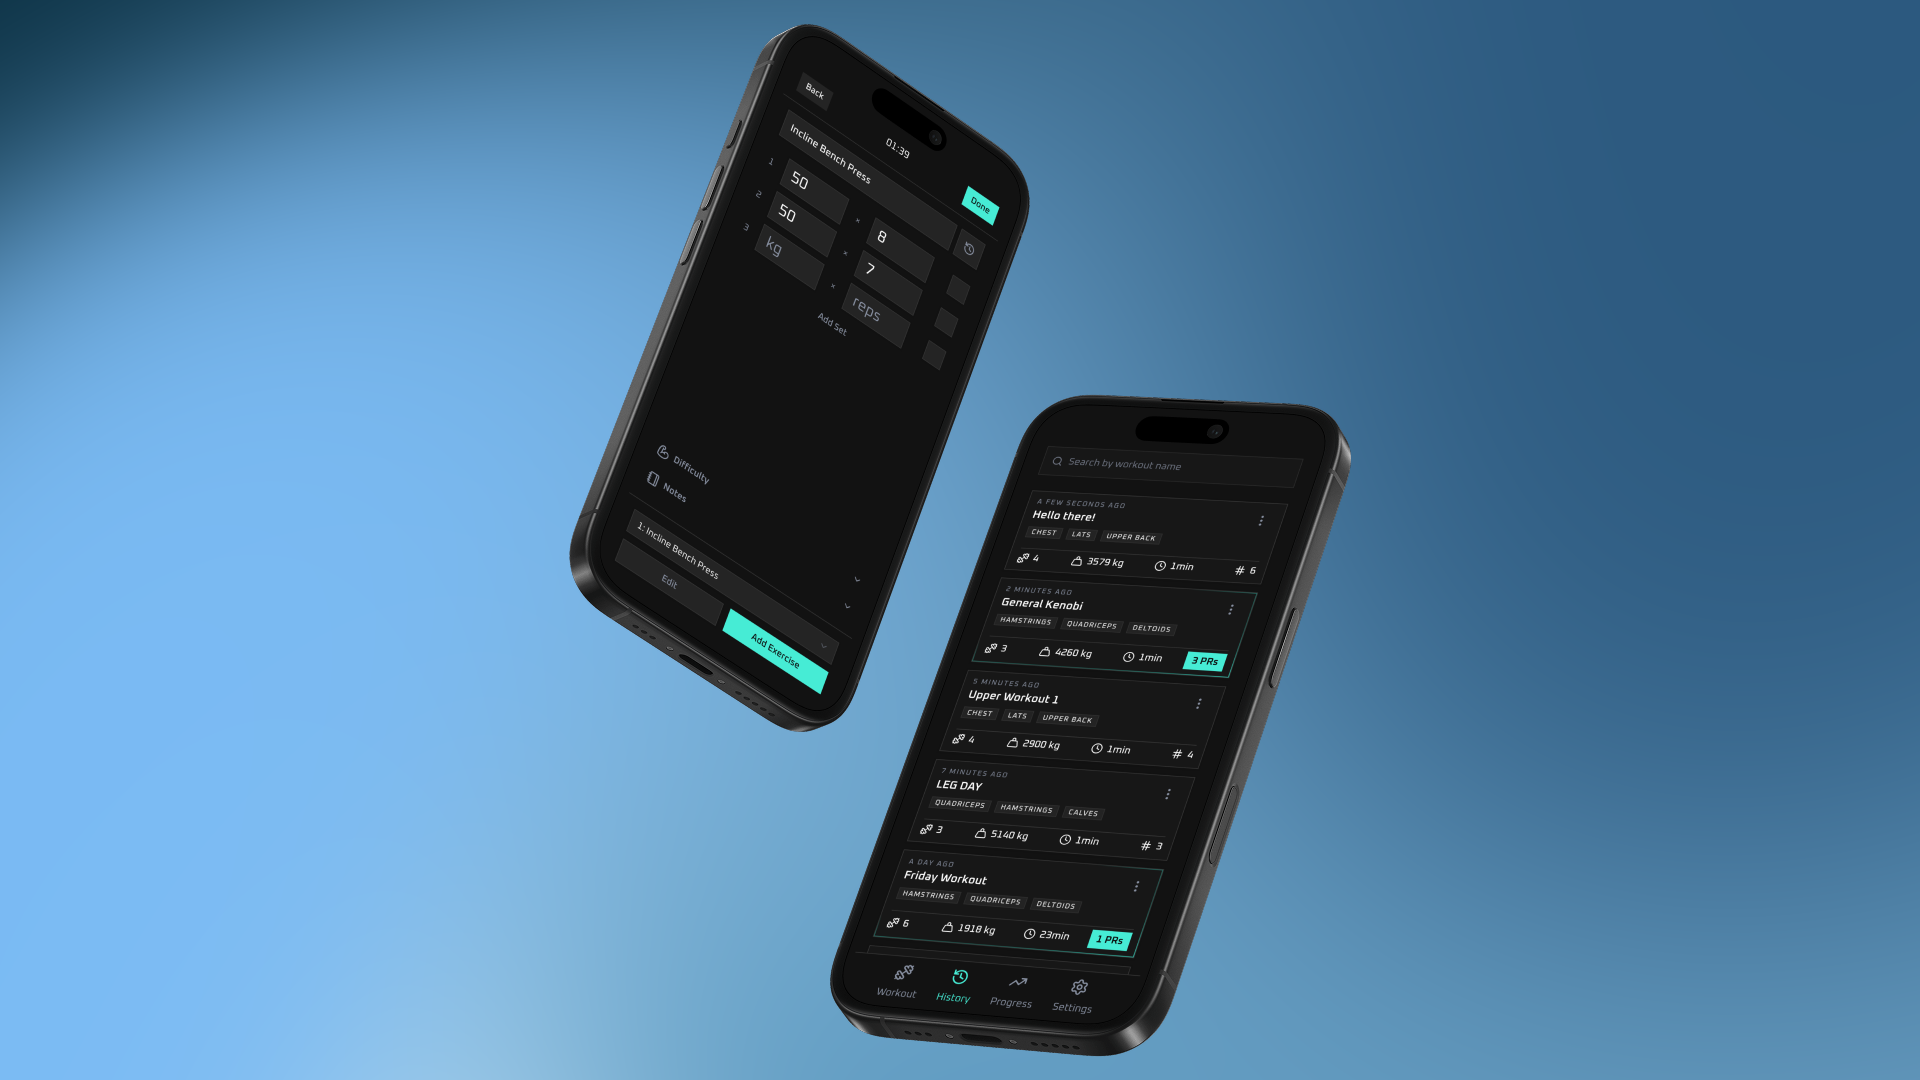
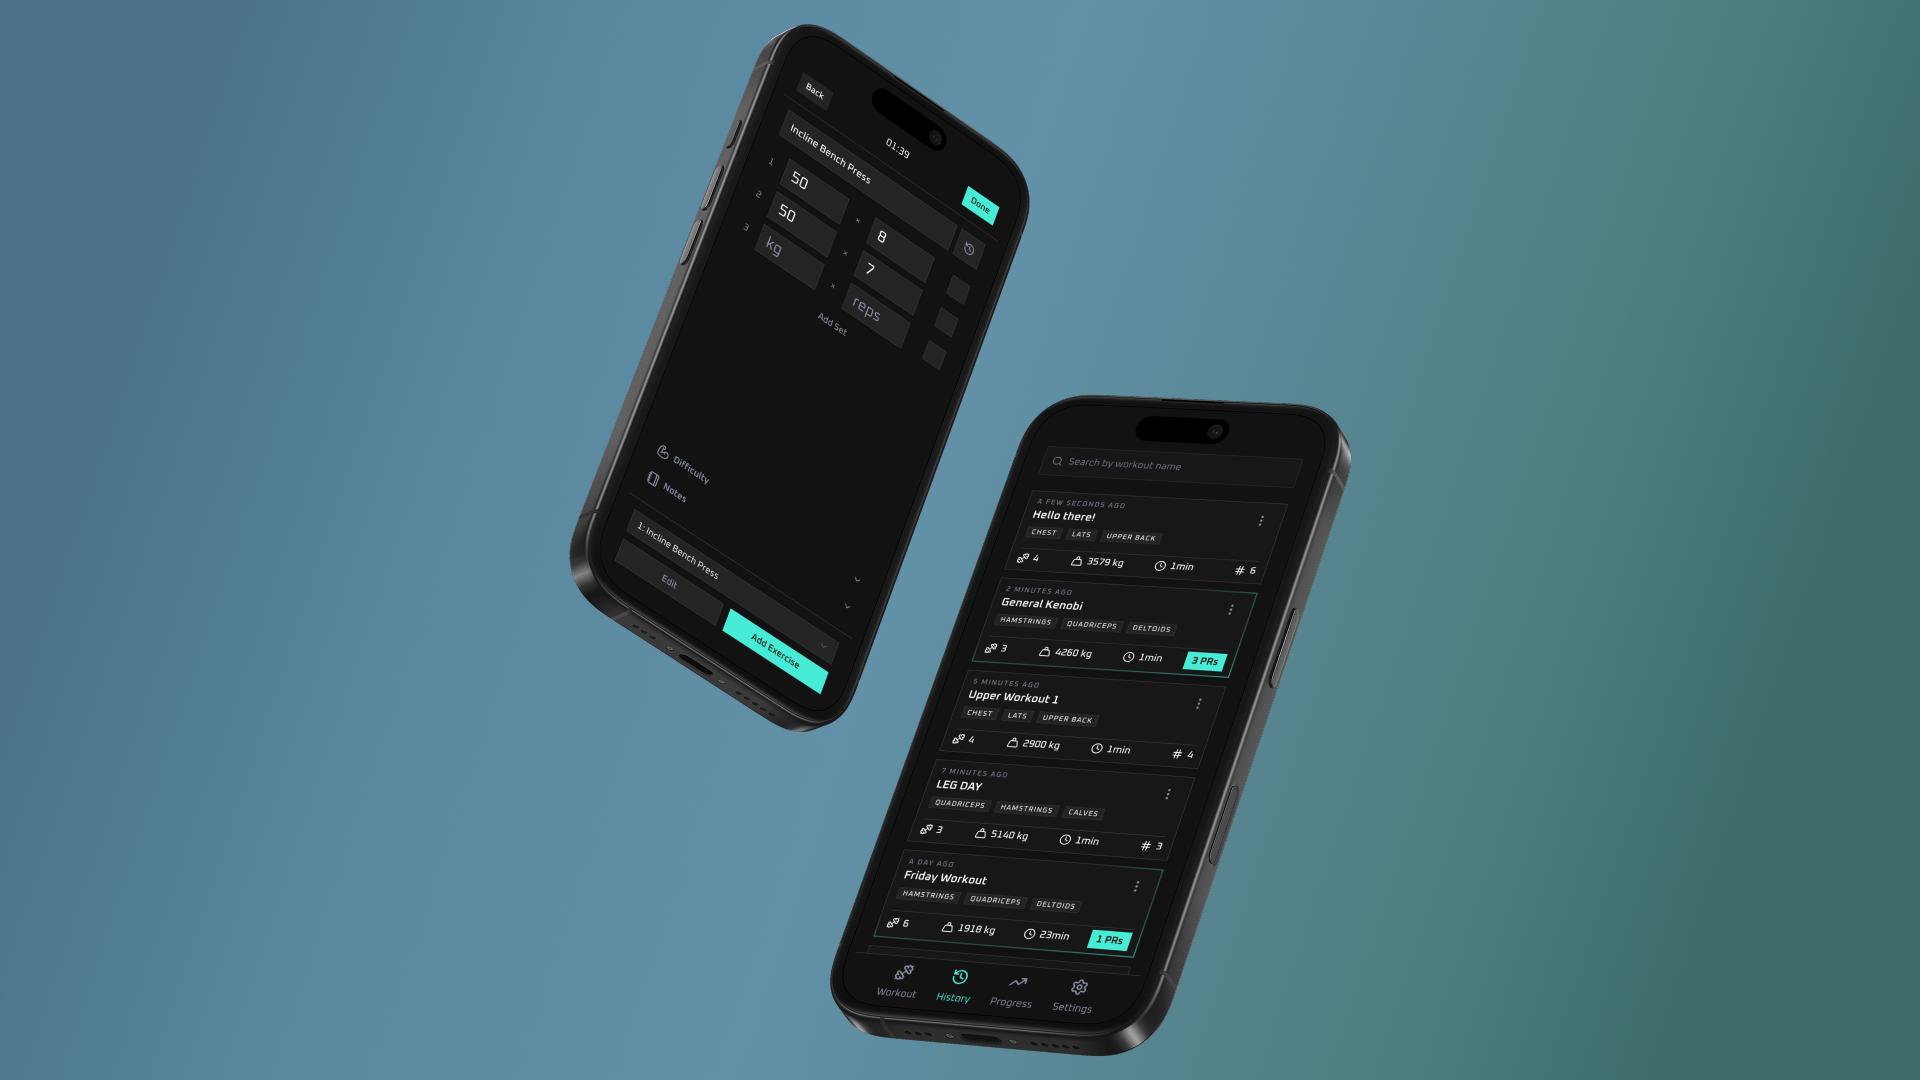
updated horus images and ai note

diff --git a/src/content/horus/01-project-overview.md b/src/content/horus/01-project-overview.md
@@ -8,10 +8,10 @@ section:
 ### What is Horus?
 
 I built a web app to track my gym workouts. I decided to create my own because
-I don't enjoy the existing solutions and my previous method of tracking
+I didn't enjoy the existing apps and my previous method of tracking
 workouts (excel sheet) was extremely inefficient and didn't scale well.
 
-I also did this for fun. I built this app as a fun learning project, meaning I
-wrote the code and designed the UI myself. I used AI as a teacher rather than some
-code generator because understanding how things work is important to me. I wanted to
-build real skills and develop my own knowledge.
+I also made this for fun. This was a fun learning project, meaning I wrote
+the code and designed the UI myself. I used AI as a teacher rather than some
+code generator. For me, it was important to develop my own knowledge and
+understand how to actually build an app.
